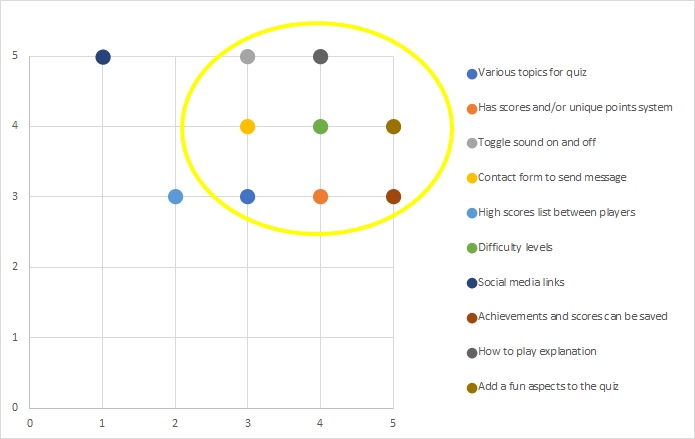
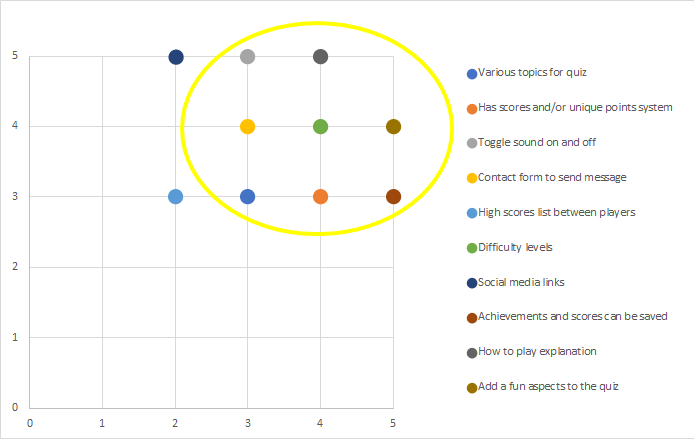
Add color scheme and responsiveness image to Readme

diff --git a/README.md b/README.md
@@ -1,5 +1,7 @@
 # Trivia World
 
+![Trivia World in various devices](assets/readme/am-i-responsive.png "Trivia World website game in various devices")  
+
 [View live website here](https://dissyulina.github.io/trivia-world/index.html)
 
 <br/>
@@ -11,51 +13,54 @@
 
 ## Introduction   
 Welcome to the Trivia World! 
-Trivia World is a website-based quiz/ trivia game in various topics such as Sports, Geography, History, Arts, Music, and Science. The game also features a spinning wheel to assign topic, and stars achievement system that differentiates it from another quiz games. It also saves scores in the user’s local storage so the user can resume the game and allows multiple user name in the same device.   
+Trivia World is a website-based quiz/ trivia game in various topics such as Sports, Geography, History, Arts, Music, and Science. The game also features a spinning wheel to assign a topic and a stars achievement system that differentiates it from other quiz games. It also saves scores in the user’s local storage so the user can resume the game and allows multiple user names on the same device.    
 
-Please note that this website game was created for the Code Institute’s Milestone Project 2 as part of their Diploma in Full Stack Software Development. The requirements are to make an interactive front-end website, using HTML, CSS, JavaScript.   
+Please note that this website game was created for the Code Institute’s Milestone Project 2 as part of their Diploma in Full Stack Software Development. The requirements are to make an interactive front-end website, using HTML, CSS, JavaScript. The site should respond to the users’ actions, allowing users to actively engage with data, alter the way site displays the site displays the information to achieve their preferred goals.   
+
 <br/>
 
 ## UX Development Plane   
 ### 1. Strategy Plane   
 
 #### **User Stories**   
-A strategic UX research was done through interviews with a few potential users. 
+Strategic UX research was done through interviews with a few potential users. 
 - **First Time Visitor Goal**   
    As a first time visitor, I want to:   
    a. Easily navigate throughout the site between pages, to play or to quit the game.   
-   b. Play the game intuitively without first reading on the instruction.  
-   c. Finding the instructions on how to play the game in case it is needed. 
+   b. Play the game intuitively without first reading the instruction.  
+   c. Finding the instructions on how to play the game if it is needed. 
    d. Be able to choose different topics. 
    e. Play the game with a great user interface visually.  
-   f. Have a clear information inside the quiz’s questions, i.e. which topic I get, how much point does this question worth, the progress bar, etc.  
+   f. Have clear information/ heads up display inside the quiz’s questions, i.e. which topic I get, how much point does this question is worth, the progress bar, etc.  
    g. View my achievements.  
-   h. Be able to save my achievements so that I can resume it later.  
-   i. Toggle the sound on and off.  
-   j. Change the language of the game.  
+   h. Be able to save my achievements so that I can resume them later.   
+   i. Be able to change player/ username so my friends can try to play it on the same device.   
+   j. Play a game with sound effects which will enhance the gaming experience.   
+   k. Toggle the sound on and off.   
 
 - **Returning/ Frequent Time Visitor Goal**   
    As a returning / frequent visitor, I want to:  
    a. Resume the playing that I did before, with my achievement still saved in the game.   
    b. Send suggestions to the developer to improve the game.  
-   c. Know in which topics I have full achievements.  
+   c. Know in which topics I have full achievements. 
+   d. To be challenged with different difficulty levels. 
 
 <br/>
 
 #### **Online Research**
-As a part of the planning process, an online research was done to gain some inspiration on UI and UX of a quiz game, including:
+As a part of the planning process, online research was done to gain some inspiration on UI and UX of a quiz game, including:
 1. [Squla](https://leukleren.squla.nl/demo) app
 2. [Kahoot!](https://kahoot.com/)
 3. Similar quiz games created by Code Institute peers (searched in channel peer-code-review in Slack)   
 <br/>
 
 #### **Project Goals**  
-The primary goal of Trivia World is to provide a web-based interactive quiz game, that is different from other typical quiz game. The game has to be fun and challenging to attract user to play the game until they can achieve rewards.   
+The primary goal of Trivia World is to provide a web-based interactive quiz game, that is different from other typical quiz games. The game has to be fun and challenging to attract users to play the game until they can achieve rewards.   
 <br/>   
 
 #### **Player Goals**   
 The target user for this game is:
--	Late teens and young adult, 15 – 35 years old  
+-	Late teens to adult, 15 – 40 years old  
 -	Consider themselves quite knowledgeable in various topics  
 -	Enjoys quiz games  
 
@@ -80,7 +85,7 @@ Opportunities / Features | Importance | Viability
    D. Contact form to send message | 3 | 4
    E. High scores list between players | 2 | 3
    F. Difficulty levels | 4 | 4
-   G. Social media links | 1 | 5
+   G. Social media links | 2 | 5
    H. Achievements and scores can be saved | 5 | 3
    I. How to play explanation | 4 | 5
    J. Add a fun aspect to the quiz | 5 | 4
@@ -95,57 +100,58 @@ The chart below is the mapping of all of the opportunities. The yellow circle si
 Based on the mapping in the Strategy Plane, I decided to include these features below in the game.
 1.	A spinning wheel   
 A spinning wheel is used to decide which topic the user will get. 
-Instead of letting the user choose the topic in a straight-forward way, I decided to incorporate a spinning wheel to decide which topic the user will get. A spinning wheel serves two main purposes of the mapping in the Strategy Plane, which are:   
+Instead of letting the user straightforwardly choose the topic, I decided to incorporate a spinning wheel to decide which topic the user will get. A spinning wheel serves two main purposes of the mapping in the Strategy Plane, which are:   
     -	Gives various topics to the game, and acts as a decision-making tool.   
     -	Adds a fun aspect of the game, as many people enjoy spinning the wheel.   
 2. Unique score/ points system   
  I decided to make a unique points system as follows:   
    -	Every question is assigned points if answered correctly
    -	For every 1000 points reached in a topic, the user will be rewarded a star in that topic.
-   -	The user can get maximum 3 stars in each topic. When a topic has 3 stars, the achievement for that topic is completed.  
+   -	The user can get a maximum of 3 stars on each topic. When a topic has 3 stars, the achievement for that topic is completed.  
 3. Points and stars are saved in the local storage of the user’s device   
-The achievements - points and stars, would be saved in the local storage of the device. At the landing page, the user is asked to input the username. If the username exists, the game will load the achievements. This allows the user to resume the game whenever they like, and other user can also use the same device and create their own username.   
+The achievements - points and stars, would be saved in the local storage of the device. At the landing page, the user is asked to input the username. If the username exists, the game will load the achievements. This allows the user to resume the game whenever they like, and other users can also use the same device and create their username.   
 4. Difficulty level goes up after each star achieved   
-Players can enjoy to be challenged in the game, because as the player reach a star, the difficulty level of the next set of questions goes up as well.
-    -	For users that have 0 star in a topic, the difficulty level of the corresponding topic is Easy.
-    -	For users that have 1 star in a topic, the difficulty level of the corresponding topic is Medium.
-    -	For users that have 2 and 3 stars in a topic, the difficulty level of the corresponding topic is Hard.
-5. How to play explanation  
-The user can access a How to Play page if they need it. In the game I will use descriptive messages, buttons, and other established conventions, therefore the user can play the game intuitively without checking out the rules/instruction first.   
-6. Contact form
+Players can enjoy being challenged in the game because as the player reaches a star, the difficulty level of the next set of questions goes up as well.
+    - For users that have 0 stars on a topic, the difficulty level of the corresponding topic is Easy.
+    - For users that have 1 star on a topic, the difficulty level of the corresponding topic is Medium.
+    - For users that have 2 and 3 stars on a topic, the difficulty level of the corresponding topic is Hard.   
+5. How to play explanation   
+The user can access a How to Play page if they need it. In the game, I will use descriptive messages, buttons, and other established conventions, therefore the user can play the game intuitively without checking out the rules/instructions first.     
+6. Contact form   
 The user can easily contact the developer through a contact form.   
 
 
 And some functionalities in the game to guarantee the user has a great user experience:
-1.	The user can toggle the sound button on and off
-2.	The user can navigate easily through the game, to quit or to play again   
+1. The user can toggle the sound button on and off
+2. The user can navigate easily through the game, quit or play again    
+  
 
 <br/>
 
-### 2. Structure Plane  
+### 3. Structure Plane  
 The game was organized in a Hierarchical Tree Structure that ensures the user can navigate easily and intuitively.   
 
 ![The structure of the website/game](assets/readme/structure.jpg "The structure of the website/game")   
 
 There are 6 pages in planning: 
-1. Landing page. 
-2. Spinning Wheel page, where the user chooses a topic.
-3. Questions page, where 10 set of questions in that topic appears one by one.
-4. Stars Achievement page, where the user can see all the stars that they have earned.
-5. How to Play page, where the user can find the instructions or rules for the game.
-6. Contact page, where the user can send a message to the developer via a contact form.
+1. Landing page, as a main menu page.    
+2. Spinning Wheel page, where the user chooses a topic.   
+3. Questions page, where 10 set of questions in that topic appears one by one.   
+4. Stars Achievement page, where the user can see all the stars that they have earned.   
+5. How to Play page, where the user can find the instructions or rules for the game.   
+6. Contact page, where the user can send a message to the developer via a contact form.   
 
 <br/>   
 
-### 3. Skeleton Plane  
-Wireframes were created using Figma to design the navigation and interface of the website. One wireframe was created for mobile devices, according to mobile-first design approach. The wireframe was only a rough sketch design of each page plus modal pop ups. 
+### 4. Skeleton Plane  
+Wireframes were created using Figma to design the navigation and interface of the website. One wireframe was created for mobile devices, according to the mobile-first design approach. The wireframe was only a rough sketch design of each page plus modal pop-ups.    
 
 ![The wireframes - mobile](assets/readme/wireframe-mobile.jpg "The wireframes - mobile") 
 
 <br/>   
 
-### 4. Surface Plane  
-For a better and clearer visualization before coding, and also to check if the color scheme and images matches and work great together, a high-fidelity mockup for mobile, tablet, and desktop was made and can be found below.
+### 5. Surface Plane  
+For a better and clearer visualization before coding, and also to check if the color scheme and images match and work great together, a high-fidelity mockup for mobile, tablet, and desktop was made and can be found below.
 
 High fidelity mock-up for mobiles:
 ![The mockup - mobile](assets/readme/mockup-mobile.jpg "The mockup - mobile")   
@@ -157,6 +163,27 @@ High fidelity mock-up for desktops:
 ![The mockup - desktop](assets/readme/mockup-desktop-1.jpg "The mockup - tablet") 
 ![The mockup - desktop](assets/readme/mockup-desktop-2.jpg "The mockup - tablet") 
 
+
+   #### **Color Scheme**  
+   The overall theme of the game was blue and green, which were derived from the hero image. Using [Coolors](https://coolors.co), I add three colors from the hero image, and the yellow color of the star image, and then I generated one more color that fits well with those three colors. The result was a magenta color and I will use this color for all buttons.     
+   ![The color scheme](assets/readme/color-scheme.jpg "The color scheme")  
+
+   #### **Typography**  
+   All of the fonts were sourced from [Google Fonts](https://fonts.google.com).   
+   - Main font: Open Sans   
+   Open Sans is used as the main font, for all paragraphs and buttons. Open Sans was chosen because it has a modern and clean style. Also following the recommendation in Google fonts of popular pairing font with Pacifico.   
+   - Secondary font: Pacifico    
+   Pacifico is used as the header (h1 – h5) font for the website. It was chosen first since I wanted to choose a beautiful and impactful font for all headers.   
+   - Tertiary font:   
+   The tertiary font is just used for the game title on the landing page. I wanted to use a fun a thick font to grab the user’s attention since that is the first impression of the website from the user’s perspective.   
+
+   #### **Imagery**  
+   - Hero Image was chosen because it’s bright, fun, and capturing attention on the first impression. It is also picturing a curve landscape that corresponds to the “World” word of “Trivia World”.   
+   - Every image inside the game were carefully chosen to corresponds with each other, mostly using a blue color theme.   
+   - Icons in the achievement page were chosen to keep the blue color theme aligned with other images.   
+   - Star image was the only one that differs from the entire theme, as it has a fun and cartoonish feel to it. It was chosen so that it stands out within the game so that the player can differentiate it from the other background images.
+
+<br />   
 
 
 ---
